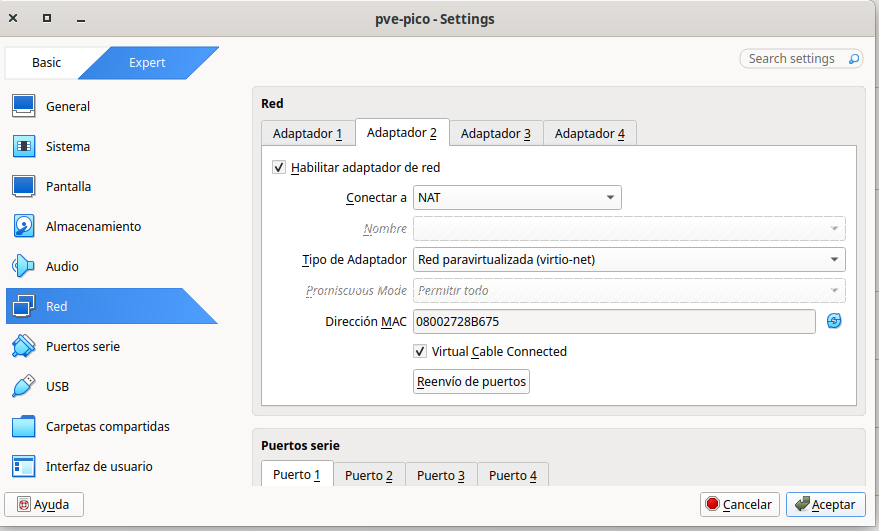
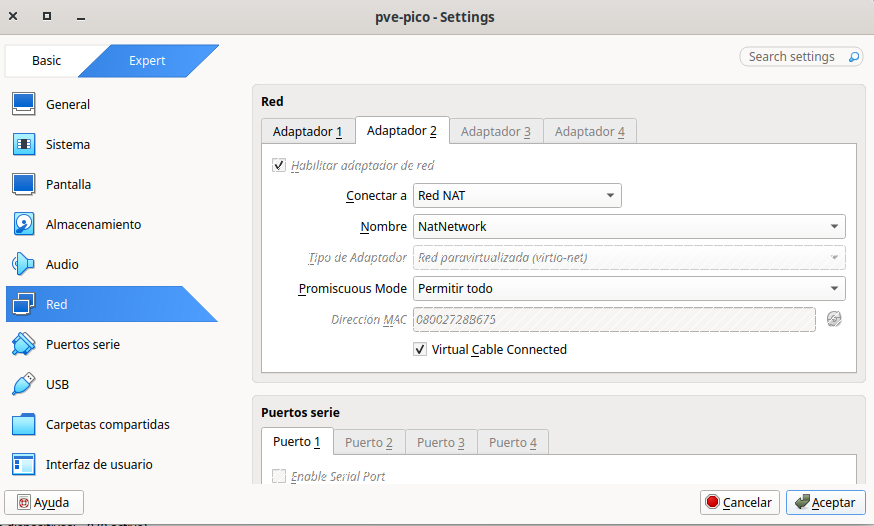
Fases 3 y 4 en VirtualBox: evidencias, documentación y bitácora sesión 07

diff --git a/docs/03-instalacion-proxmox.md b/docs/03-instalacion-proxmox.md
@@ -330,4 +330,122 @@ El nodo ya está listo para crear las máquinas. Entro al panel desde el Mac en 
 
 Para la siguiente fase me queda actualizar los 158 paquetes, descargar una plantilla LXC ARM64 y preparar la plantilla Linux. En la fase 5 también comprobaré que el NAT funciona desde los contenedores.
 
+# Migración a VirtualBox (Debian)
+
+## Objetivo
+Repetir las fases 3 y 4 en mi portátil con Debian y VirtualBox, que es lo que pedía el enunciado, y quitar la limitación del Mac: sin KVM los invitados solo podían ser LXC. Lo hecho en UTM se queda arriba como historial y en la etiqueta `utm-macos-fase4` del repositorio.
+
+## Procedimiento
+
+### 1. Equipo anfitrión
+Portátil con Debian 13.7, Intel i5-10210U (4 núcleos y 8 hilos, VT-x), 7,6 GiB de RAM y NVMe de 930 GB ([host-lscpu.txt](../evidencias/virtualbox/host-lscpu.txt), [host-free.txt](../evidencias/virtualbox/host-free.txt), [host-lsblk.txt](../evidencias/virtualbox/host-lsblk.txt)). VirtualBox lo he instalado desde el repositorio fasttrack de Debian ([host-vbox.txt](../evidencias/virtualbox/host-vbox.txt)). Como el portátil tiene Secure Boot activado ([host-secureboot.txt](../evidencias/virtualbox/host-secureboot.txt)), los módulos de VirtualBox no cargaban hasta que creé una clave MOK, la registré con `mokutil --import` y la acepté en el MOK Manager al reiniciar.
+
+### 2. Red host-only
+En el Administrador de red de VirtualBox he creado `vboxnet0` con la IP 192.168.20.1/24 y sin DHCP, porque todas las IPs del laboratorio son fijas. Antes tuve que añadir `* 192.168.20.0/24` a `/etc/vbox/networks.conf`, porque en Linux VirtualBox solo deja usar la 192.168.56.0/21 por defecto.
+
+![Red host-only](../evidencias/virtualbox/vbox_red_hostonly.png)
+
+### 3. Creación de la VM
+He comprobado el SHA256 de la ISO de Proxmox VE 9.2 con el de la web oficial y coincide ([iso-sha256.txt](../evidencias/virtualbox/iso-sha256.txt)). La VM `pve-pico` tiene:
+
+| Opción | Valor | Motivo |
+|---|---|---|
+| Sistema | Debian (64-bit), EFI | Proxmox 9 está basado en Debian 13 |
+| CPU | 3 vCPU | Dejo 5 hilos para Debian |
+| RAM | 4 GB | Con 6 GB a Debian le quedaba muy poco |
+| Disco | 70 GB VDI fijo en controlador virtio-scsi | Disco paravirtualizado y que no crece |
+| Adaptador 1 | Host-only `vboxnet0`, virtio-net, promiscuo "Permitir todo" | Gestión y red de los invitados |
+| Adaptador 2 | Red NAT `NatNetwork`, virtio-net | Salida a Internet |
+| VT-x anidado | Activado | Para tener KVM dentro de Proxmox |
+
+La casilla de VT-x anidado salía en gris, así que lo activé con `VBoxManage modifyvm "pve-pico" --nested-hw-virt on` ([vbox-nested.txt](../evidencias/virtualbox/vbox-nested.txt)).
+
+![Crear VM](../evidencias/virtualbox/vbox_crear_vm.png)
+![Hardware](../evidencias/virtualbox/vbox_hardware_vm.png)
+![VT-x anidado en gris](../evidencias/virtualbox/vbox_procesador_antes.png)
+![VT-x anidado activado](../evidencias/virtualbox/vbox_procesador.png)
+![Almacenamiento](../evidencias/virtualbox/vbox_almacenamiento.png)
+![Adaptador 1](../evidencias/virtualbox/vbox_red_adaptador1.png)
+![Adaptador 2](../evidencias/virtualbox/vbox_red_adaptador2.png)
+![Resumen de la VM](../evidencias/virtualbox/vbox_resumen_vm.png)
+
+### 4. Instalación de Proxmox
+ext4 sobre `/dev/sda`, Spain, Europe/Madrid y teclado es. En la red elegí `nic0` comprobando la MAC del adaptador 1 (08:00:27:4d:1c:be), hostname `pve-pico.local`, IP 192.168.20.10/24, gateway 192.168.20.1 (el instalador lo exige) y DNS 10.0.2.3, que luego cambié.
+
+![Instalador](../evidencias/virtualbox/instalador_inicio.png)
+![Disco](../evidencias/virtualbox/instalador_disco.png)
+![Red](../evidencias/virtualbox/instalador_red.png)
+![Resumen](../evidencias/virtualbox/instalador_resumen.png)
+![Panel](../evidencias/virtualbox/panel_proxmox.png)
+
+Comprobaciones ([pve-fase3.txt](../evidencias/virtualbox/pve-fase3.txt)): hostname `pve-pico`, x86-64, `pve-manager/9.2.2` y el panel abre en `https://192.168.20.10:8006`. Lo más importante es que **`/dev/kvm` existe** y la CPU virtual tiene `vmx`, al contrario que en UTM. Además el disco virtio-scsi arrancó a la primera, cuando en UTM el SCSI no arrancaba.
+
+### 5. Red del nodo
+Igual que en el Mac, pero aquí `nic0` es la host-only y `nic1` la NAT ([pve-red-antes.txt](../evidencias/virtualbox/pve-red-antes.txt), [pve-red-despues.txt](../evidencias/virtualbox/pve-red-despues.txt)):
+
+| Bridge | Tarjeta | IP | Gateway | Para qué |
+|---|---|---|---|---|
+| `vmbr0` | `nic0` (host-only) | 192.168.20.10/24 | No tiene | Panel, SSH y red de los invitados |
+| `vmbr1` | `nic1` (Red NAT) | 10.0.2.100/24 | 10.0.2.1 | Salida a Internet |
+
+Los invitados salen por `vmbr1` con una regla MASQUERADE. La regla se añadía otra vez en cada `ifreload -a`, así que la cambié para que primero compruebe si existe (`iptables -C ... || iptables -A ...`). El DNS del nodo es 10.0.2.1 y 1.1.1.1. El ping al gateway funciona y `deb.debian.org` se resuelve ([pve-conectividad.txt](../evidencias/virtualbox/pve-conectividad.txt)).
+
+![Red NAT](../evidencias/virtualbox/vbox_red_nat.png)
+
+### 6. Repositorios y almacenamiento
+Los repositorios enterprise daban error 401. Los desactivé y añadí el No-Subscription. Ahora `apt update` va sin errores y hay 213 paquetes para actualizar ([pve-apt-update.txt](../evidencias/virtualbox/pve-apt-update.txt)).
+
+He creado `backup-lab` en `/srv/backup-lab` solo para copias ([pve-almacenamiento.txt](../evidencias/virtualbox/pve-almacenamiento.txt)):
+
+| Almacenamiento | Tipo | Total | Libre | Para qué lo uso |
+|---|---|---|---|---|
+| `local` | Directorio | 27,8 GiB | 22,2 GiB | Plantillas e ISOs |
+| `local-lvm` | LVM-Thin | 26,5 GiB | 26,5 GiB | Discos de `srv-aso` y `cli-linux` |
+| `backup-lab` | Directorio (mismo disco que `local`) | 27,8 GiB | 22,2 GiB | Copias |
+
+La swap es de 4 GB y en el grupo `pve` quedan 8,63 GB sin usar.
+
+![Repositorios](../evidencias/virtualbox/repos_despues.png)
+![Storage](../evidencias/virtualbox/storage_fase4.png)
+
+### 7. Mejoras de la VM
+En VirtualBox he podido hacer las cinco mejoras ([pve-mejoras.txt](../evidencias/virtualbox/pve-mejoras.txt), [vbox-vminfo.txt](../evidencias/virtualbox/vbox-vminfo.txt), [vbox-disco-fijo.txt](../evidencias/virtualbox/vbox-disco-fijo.txt)):
+
+| Mejora | Estado | Evidencia |
+|---|---|---|
+| VT-x anidado | Hecha | `Nested VT-x/AMD-V: enabled` y `/dev/kvm` en el nodo |
+| Paravirtualización KVM | Hecha | `Effective Paravirt. Prov.: KVM` y drivers `virtio_net` |
+| Modo promiscuo | Hecha | `Promisc Policy: allow-all` y `promiscuity 1` en `nic0` |
+| Disco de tamaño fijo | Hecha | `Format variant: fixed default` |
+| Controlador virtio-scsi | Hecha | `Type: VirtioSCSI` y driver `virtio_scsi` |
+
+### 8. Accesos y recursos
+Sigo usando solo `root@pam` y el firewall de Proxmox desactivado y sin reglas, por los mismos motivos que en el Mac.
+
+![Usuarios](../evidencias/virtualbox/usuarios_fase4.png)
+![Firewall](../evidencias/virtualbox/firewall_fase4.png)
+
+| Elemento | vCPU | RAM | Disco |
+|---|---|---|---|
+| Debian (anfitrión) | 5 hilos libres | 3,6 GiB | NVMe, 868 GB libres |
+| VM `pve-pico` | 3 | 4 GB (3,8 GiB visibles) | 70 GB fijos |
+| `srv-aso` (VM) | 1 | 1 GB | 10 GB en `local-lvm` |
+| `cli-linux` (LXC) | 1 | 512 MB | 8 GB en `local-lvm` |
+
+4 GB − 1,5 GB que gasta el nodo − 1 GB − 0,5 GB = 1 GB de margen. Si hace falta, el nodo tiene 4 GB de swap.
+
+## Incidencias
+- Secure Boot no dejaba cargar los módulos de VirtualBox. Lo solucioné firmándolos con una clave MOK.
+- La casilla de VT-x anidado salía en gris. La activé con `VBoxManage`.
+- Puse 6 GB de RAM a la VM y la bajé a 4 GB, porque el portátil solo tiene 7,6 GiB.
+- En el instalador escribí `pve.pico.local` y el hostname quedaba `pve`. Lo vi en el resumen y lo corregí a `pve-pico.local` antes de instalar.
+- Los adaptadores estaban al revés (NAT en el 1) y el host-only acabó como "Red interna". Lo corregí antes de arrancar comparando con el resumen de la VM.
+- Con el modo "NAT" simple el gateway 10.0.2.2 no respondía ni al ARP (`10.0.2.2 FAILED`), ni con la IP 10.0.2.15 que da su DHCP. Lo cambié a "Red NAT" (`NatNetwork`), que funciona como un router y acepta IPs fijas. El gateway pasó a ser 10.0.2.1, como en el diseño original.
+- La regla MASQUERADE salía duplicada después de varios `ifreload -a`. Ahora solo se añade si no existe.
+- Aunque marqué "Reservar completamente", el disco quedó dinámico. Con la VM apagada lo convertí con `VBoxManage clonemedium ... --variant Fixed` y conecté el disco nuevo.
+- Los repositorios enterprise daban error 401. Los cambié por el No-Subscription.
+
+## Conclusion
+El nodo está igual que en el Mac pero sin la limitación de KVM, así que en la fase 5 `srv-aso` podrá ser una VM. Queda actualizar los 213 paquetes, descargar las plantillas y comprobar el NAT desde los invitados.
+
 [Volver al indice](../README.md)

diff --git a/docs/02-diagrama-red.md b/docs/02-diagrama-red.md
@@ -1,13 +1,18 @@
 # 02-diagrama-red
 
 ## Objetivo
-En esta fase del proyecto voy a decidir qué redes va a usar la VM de Proxmox, en mi caso uso UTM para virtualizarla, debo de decidir qué redes configuro y qué IP tiene la máquina. La idea es poder gestionar Proxmox desde mi Mac y que Proxmox y las máquinas invitadas tengan salida a la red.
+En esta fase del proyecto voy a decidir qué redes va a usar la VM de Proxmox, en mi caso uso VirtualBox en Debian para virtualizarla (antes UTM en el Mac), debo de decidir qué redes configuro y qué IP tiene la máquina. La idea es poder gestionar Proxmox desde mi portátil y que Proxmox y las máquinas invitadas tengan salida a la red.
 
 ## Procedimiento
-Para este laboratorio necesito que Proxmox esté conectado a dos redes, la primera es la red 'host only'. Host only la he configurado con la red 192.168.20.0/24, esta red la usaré para conectarme a Proxmox vía HTTPS por el puerto TCP:8006. La segunda es red NAT o en mi caso (uso UTM en vez de VirtualBox) 'red compartida'. Que en UTM se llame red compartida no implica que sea adaptador puente, hace una red NAT la cual he configurado para que sea 10.0.2.0/24.
+Para este laboratorio necesito que Proxmox esté conectado a dos redes, la primera es la red 'host only'. Host only la he configurado con la red 192.168.20.0/24, esta red la usaré para conectarme a Proxmox vía HTTPS por el puerto TCP:8006. La segunda es una red NAT. En VirtualBox uso la 'Red NAT' (`NatNetwork`) con la red 10.0.2.0/24 y no el modo 'NAT' simple, porque el NAT simple no respondía detrás del bridge de Proxmox (está explicado en la [instalación](03-instalacion-proxmox.md#migración-a-virtualbox-debian)). En UTM esta red se llamaba 'red compartida'.
 
 ### Configuración de la VM
 En estas capturas muestro el estado de la configuración de las interfaces de la VM.
+
+![Red Host Only en VirtualBox](../evidencias/virtualbox/vbox_red_hostonly.png)
+![Red NAT en VirtualBox](../evidencias/virtualbox/vbox_red_nat.png)
+
+Antes, en UTM:
 
 ![Red Host Only](../evidencias/capturas-o-salidas/red_hostonly_utm.png)
 ![Red NAT](../evidencias/capturas-o-salidas/red_compartida_utm.png)
@@ -16,34 +21,34 @@ En estas capturas muestro el estado de la configuración de las interfaces de la
 
 | Interfaz / bridge | Red | IP del nodo | Para qué la uso |
 |---|---|---|---|
-| Interfaz 1 (host-only) → `vmbr0` | Host-only 192.168.20.0/24 | 192.168.20.10 | Esta interfaz me permite conectarme a la interfaz web de Proxmox desde mi Mac vía HTTPS por el puerto TCP:8006. En este bridge también van `srv-aso` y `cli-linux` |
-| Interfaz 2 (red compartida) → `vmbr1` | Red compartida (NAT) 10.0.2.0/24 | 10.0.2.100 | Esta interfaz da salida a Internet a Proxmox. Las VMs salen a Internet a través de Proxmox, que hace NAT hacia esta red |
+| `nic0` (host-only `vboxnet0`) → `vmbr0` | Host-only 192.168.20.0/24 | 192.168.20.10 | Esta interfaz me permite conectarme a la interfaz web de Proxmox desde mi portátil vía HTTPS por el puerto TCP:8006. En este bridge también van `srv-aso` y `cli-linux` |
+| `nic1` (Red NAT `NatNetwork`) → `vmbr1` | Red NAT 10.0.2.0/24 | 10.0.2.100 | Esta interfaz da salida a Internet a Proxmox. Las VMs salen a Internet a través de Proxmox, que hace NAT hacia esta red |
 
-Las máquinas invitadas van en la red host-only (`vmbr0`) porque así desde mi Mac puedo llegar a ellas directamente para probar y administrar.
+Las máquinas invitadas van en la red host-only (`vmbr0`) porque así desde mi portátil puedo llegar a ellas directamente para probar y administrar.
 
 
 ### Tabla de direccionamiento
 
 | Elemento | Nombre | IP | Función | Recursos |
 |---|---|---|---|---|
-| Nodo Proxmox | `pve-pico` | 192.168.20.10 (gestión) / 10.0.2.100 | Hipervisor | 2 vCPU, 6 GB RAM, 70 GB disco (VM de UTM) |
-| Servidor ASO | `srv-aso` | 192.168.20.101 | Servicio principal (___) | 1 vCPU, 2 GB, 10 GB |
-| Cliente | `cli-linux` | 192.168.20.102 | Pruebas | 1 vCPU, 1 GB, 8 GB |
+| Nodo Proxmox | `pve-pico` | 192.168.20.10 (gestión) / 10.0.2.100 | Hipervisor | 3 vCPU, 4 GB RAM, 70 GB disco fijo (VM de VirtualBox) |
+| Servidor ASO | `srv-aso` | 192.168.20.101 | Servicio principal (___), VM | 1 vCPU, 1 GB, 10 GB |
+| Cliente | `cli-linux` | 192.168.20.102 | Pruebas, LXC | 1 vCPU, 512 MB, 8 GB |
 
 ### Gateway y DNS
 
 | Red / equipo | Gateway | DNS | Comentario |
 |---|---|---|---|
-| `pve-pico` en host-only 192.168.20.0/24 | Sin gateway | No aplica | Solo se usa para gestionar Proxmox desde el Mac |
-| `pve-pico` en red compartida 10.0.2.0/24 | 10.0.2.1 | 10.0.2.1, 1.1.1.1 | 10.0.2.1 es el Mac, que reenvía las consultas al DNS de la red en la que esté |
+| `pve-pico` en host-only 192.168.20.0/24 | Sin gateway | No aplica | Solo se usa para gestionar Proxmox desde el portátil |
+| `pve-pico` en Red NAT 10.0.2.0/24 | 10.0.2.1 | 10.0.2.1, 1.1.1.1 | 10.0.2.1 es el router de la Red NAT de VirtualBox, que reenvía las consultas al DNS del portátil |
 | `srv-aso` y `cli-linux` (192.168.20.0/24) | 192.168.20.10 | 10.0.2.1, 1.1.1.1 | Salen a Internet a través de Proxmox, que hace NAT hacia la red compartida |
 
 ### Puertos necesarios
 
 | Origen | Destino | Puerto | Para qué |
 |---|---|---|---|
-| Mac | `pve-pico` (192.168.20.10) | 8006/TCP | Web de Proxmox |
-| Mac | `pve-pico` (192.168.20.10) | 22/TCP | SSH al nodo |
+| Portátil (Debian) | `pve-pico` (192.168.20.10) | 8006/TCP | Web de Proxmox |
+| Portátil (Debian) | `pve-pico` (192.168.20.10) | 22/TCP | SSH al nodo |
 | `cli-linux` | `srv-aso` | ___ | Servicio ASO |
 | Invitados | Internet (a través de Proxmox) | 80, 443/TCP y 53/UDP | Actualizaciones y DNS |
 
@@ -51,9 +56,9 @@ Las máquinas invitadas van en la red host-only (`vmbr0`) porque así desde mi M
 
 ```mermaid
 flowchart TD
-    Mac["Mac (UTM)"] -->|"Host-only 192.168.20.0/24<br>8006 y 22"| VMBR0["vmbr0<br>192.168.20.0/24"]
+    Mac["Portátil Debian (VirtualBox)"] -->|"Host-only 192.168.20.0/24<br>8006 y 22"| VMBR0["vmbr0<br>192.168.20.0/24"]
     VMBR0 --- PVE["pve-pico<br>192.168.20.10 / 10.0.2.100<br>Nodo Proxmox"]
-    PVE -->|"NAT (salida a Internet)"| VMBR1["vmbr1<br>Red compartida UTM 10.0.2.0/24"]
+    PVE -->|"NAT (salida a Internet)"| VMBR1["vmbr1<br>Red NAT VirtualBox 10.0.2.0/24"]
     VMBR1 --> NET["Internet"]
     VMBR0 --> SRV["srv-aso<br>192.168.20.101<br>Servicio ASO"]
     VMBR0 --> CLI["cli-linux<br>192.168.20.102<br>Cliente pruebas"]
@@ -72,6 +77,8 @@ En este apartado no he usado ningún comando, realizaré las configuraciones en 
 
 ## Evidencias
 
+- [Red host-only en VirtualBox](../evidencias/virtualbox/vbox_red_hostonly.png): `vboxnet0` con 192.168.20.1/24 y sin DHCP.
+- [Red NAT en VirtualBox](../evidencias/virtualbox/vbox_red_nat.png): `NatNetwork` con 10.0.2.0/24.
 - [Red host-only en UTM](../evidencias/capturas-o-salidas/red_hostonly_utm.png): adaptador host-only de la VM, con la red 192.168.20.0/24.
 - [Red compartida en UTM](../evidencias/capturas-o-salidas/red_compartida_utm.png): adaptador de red compartida de la VM, con la red NAT 10.0.2.0/24.
 

diff --git a/docs/00-ficha-inicial.md b/docs/00-ficha-inicial.md
@@ -5,11 +5,11 @@
 | Identificador del alumno | Bruno Pico |
 | URL GitHub | https://github.com/brunopico/pi-proxmox-pico-bruno.git |
 | Acceso docente comprobado | PENDIENTE |
-| Modalidad fisica o virtualizada | VIRTUALIZADA. Proxmox va en una VM de UTM en mi Mac (al principio era física, el cambio está explicado en la [bitácora](00-bitacora.md)) |
-| Recursos conocidos | Mi Mac: MacBook Air con chip M4, 16 GB de RAM y macOS 27.0.1. A la VM de Proxmox le doy 2 vCPU, 6 GB de RAM y 70 GB de disco, con dos tarjetas de red (host-only y red compartida). Proxmox VE 9.2 para ARM64 |
+| Modalidad fisica o virtualizada | VIRTUALIZADA. Proxmox va en una VM de VirtualBox en mi portátil con Debian (al principio era física y luego UTM en el Mac, los cambios están explicados en la [bitácora](00-bitacora.md)) |
+| Recursos conocidos | Portátil con Debian 13.7: Intel i5-10210U (4 núcleos, 8 hilos, VT-x), 7,6 GiB de RAM y NVMe de 930 GB. A la VM de Proxmox le doy 3 vCPU, 4 GB de RAM y 70 GB de disco fijo, con dos tarjetas de red (host-only y Red NAT). Proxmox VE 9.2 amd64 |
 | Nombre del nodo | pve-pico |
 | Servicio ASO previsto | PENDIENTE (a elegir entre Samba, NFS, SSH, LDAP, CUPS o Nginx administrado) |
-| Red de laboratorio | Dos redes en UTM: host-only 192.168.20.0/24 para gestionar Proxmox desde el Mac (nodo en 192.168.20.10) y red compartida con NAT 10.0.2.0/24 para salir a Internet (nodo en 10.0.2.100, srv-aso en 10.0.2.101 y cli-linux en 10.0.2.102). Gateway y DNS: 10.0.2.1. Todo explicado en el [diagrama de red](02-diagrama-red.md). VLAN: no la uso |
-| Riesgos y dudas iniciales | Con 6 GB en la VM no se si iré algo justo de RAM: Proxmox necesita unos 2 GB y los dos invitados 1 GB cada uno. Proxmox para ARM es nuevo y en un Mac solo tiene soporte "best-effort". Las ISOs y plantillas tienen que ser ARM64. Tengo que comprobar si UTM me deja virtualización anidada para las VMs de dentro; si no, los invitados tendrán que ser LXC. Todo depende de mi Mac: si se queda sin RAM o sin disco, se resiente el laboratorio |
+| Red de laboratorio | Dos redes en VirtualBox: host-only `vboxnet0` 192.168.20.0/24 para gestionar Proxmox desde el portátil y para los invitados (nodo en 192.168.20.10, srv-aso en .101 y cli-linux en .102) y Red NAT `NatNetwork` 10.0.2.0/24 para salir a Internet (nodo en 10.0.2.100). Gateway y DNS: 10.0.2.1. Todo explicado en el [diagrama de red](02-diagrama-red.md). VLAN: no la uso |
+| Riesgos y dudas iniciales | El portátil solo tiene 7,6 GiB de RAM y la VM se queda con 4 GB, así que voy justo: Proxmox gasta unos 1,5 GB, `srv-aso` (VM) tendrá 1 GB y `cli-linux` (LXC) 512 MB. Si abro muchas cosas en Debian a la vez puede ir lento. Todo depende del portátil: si se queda sin RAM o falla el disco, se resiente el laboratorio |
 
 [Volver al indice](../README.md)

diff --git a/docs/00-bitacora.md b/docs/00-bitacora.md
@@ -64,6 +64,16 @@ las evidencias utiles; evita frases generales como "he trabajado en Proxmox".
 - Incidencias y solucion o estado pendiente: Con el disco en SCSI la VM no arrancaba porque no veía el disco. Volví a VirtIO y el profesor me dijo que vale. Los repositorios enterprise daban error 401 y los cambié por el No-Subscription. El ping a Internet no responde porque el centro lo bloquea por sus políticas, pero `apt update` descarga bien.
 - Siguiente paso: Actualizar los paquetes, descargar una plantilla LXC ARM64 y preparar la plantilla Linux.
 
+## Sesion 07 - 14-11-2026
+
+- Objetivo: pasar el laboratorio a mi portátil con Debian y VirtualBox y repetir las fases 3 y 4 (docs/03-instalacion-proxmox.md).
+- Acciones realizadas: He guardado el estado del Mac en la etiqueta `utm-macos-fase4` y trabajo en la rama `virtualbox-debian`. He instalado VirtualBox, creado la red host-only `vboxnet0` y la VM `pve-pico` (3 vCPU, 4 GB, 70 GB, EFI, virtio-scsi, virtio-net y VT-x anidado) y he instalado Proxmox VE 9.2 amd64. Después he configurado `vmbr0` y `vmbr1` con NAT, el repositorio No-Subscription y `backup-lab`, y he hecho las cinco mejoras de la VM.
+- Decisiones y motivos: Cambio de equipo porque en VirtualBox hay VT-x anidado y KVM, así que `srv-aso` podrá ser una VM. Bajo la RAM de la VM a 4 GB porque el portátil tiene 7,6 GiB. Uso Red NAT en vez del NAT simple porque el NAT simple no respondía detrás del bridge.
+- Pruebas y resultados: El SHA256 de la ISO coincide. `/dev/kvm` existe y `pveversion` da 9.2.2. El panel abre en https://192.168.20.10:8006, el ping a 10.0.2.1 funciona, `deb.debian.org` se resuelve y `apt update` va sin errores. El disco sale como `fixed default`.
+- Documentos o evidencias: [Migración a VirtualBox](03-instalacion-proxmox.md#migración-a-virtualbox-debian); salidas y capturas en evidencias/virtualbox/.
+- Incidencias y solucion o estado pendiente: Secure Boot (firma MOK), VT-x anidado en gris (`VBoxManage`), hostname mal escrito en el instalador, adaptadores al revés, NAT simple sin respuesta (Red NAT), regla MASQUERADE duplicada y disco dinámico (`clonemedium`). Todo está explicado en el documento.
+- Siguiente paso: Actualizar los 213 paquetes, descargar las plantillas y crear `srv-aso` y `cli-linux`.
+
 Anadir una entrada con esta estructura en cada sesion. El historial de
 GitHub registra los commits; no hace falta incluir el hash del propio
 commit dentro de su entrada de bitacora.

diff --git a/README.md b/README.md
@@ -6,11 +6,11 @@ URL GitHub: https://github.com/brunopico/pi-proxmox-pico-bruno.git
 
 ## Objetivo
 
-Disponer de un laboratorio de virtualización propio, reproducible y documentado, donde practicar la administración de servicios de ASO sin depender del Proxmox del centro. El laboratorio será un único nodo Proxmox VE con dos invitados: un servidor de servicio (`srv-aso`) y un cliente Linux (`cli-linux`) desde el que se comprueba el servicio. El trabajo incluye automatización con Bash y Ansible, y copias de seguridad con su restauración probada. El nodo Proxmox está virtualizado en mi Mac con UTM. Como UTM con QEMU no permite virtualización anidada, `srv-aso` y `cli-linux` serán contenedores LXC.
+Disponer de un laboratorio de virtualización propio, reproducible y documentado, donde practicar la administración de servicios de ASO sin depender del Proxmox del centro. El laboratorio será un único nodo Proxmox VE con dos invitados: un servidor de servicio (`srv-aso`) y un cliente Linux (`cli-linux`) desde el que se comprueba el servicio. El trabajo incluye automatización con Bash y Ansible, y copias de seguridad con su restauración probada. Al principio monté el nodo en mi Mac con UTM, pero ahora lo tengo en mi portátil con Debian y VirtualBox. Aquí sí hay virtualización anidada (KVM), así que `srv-aso` será una VM y `cli-linux` un contenedor LXC.
 
 ## Modalidad
 
-Virtualizada (UTM). Mi portátil es un Mac con chip ARM, así que solo puedo virtualizar sistemas ARM a buena velocidad. Por eso uso la versión de Proxmox para ARM64 en una VM de UTM.
+Virtualizada (VirtualBox). Proxmox VE 9.2 amd64 va en una VM de VirtualBox en mi portátil con Debian 13 (Intel i5-10210U). Hasta la fase 4 lo hice en el Mac con UTM y Proxmox ARM64; ese estado está guardado en la etiqueta `utm-macos-fase4` y el cambio está explicado en la [bitácora](docs/00-bitacora.md).
 
 ## Indice de documentacion
 
@@ -35,7 +35,7 @@ Virtualizada (UTM). Mi portátil es un Mac con chip ARM, así que solo puedo vir
 - [x] Modalidad indicada
 - [x] Inventario
 - [x] Diagrama de red
-- [x] Instalacion Proxmox
+- [x] Instalacion Proxmox (repetida en VirtualBox)
 - [ ] Plantilla Linux
 - [ ] VMs/LXC
 - [ ] Servicio ASO
